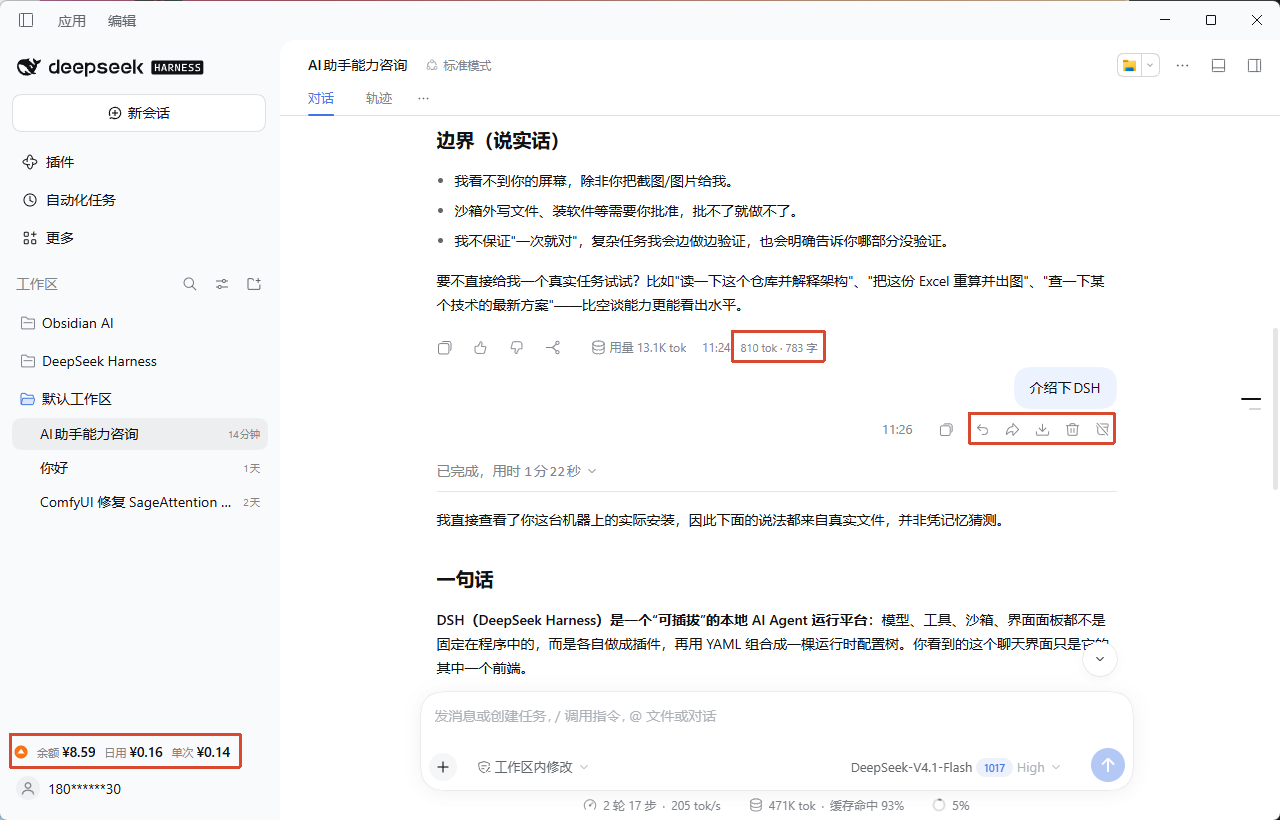
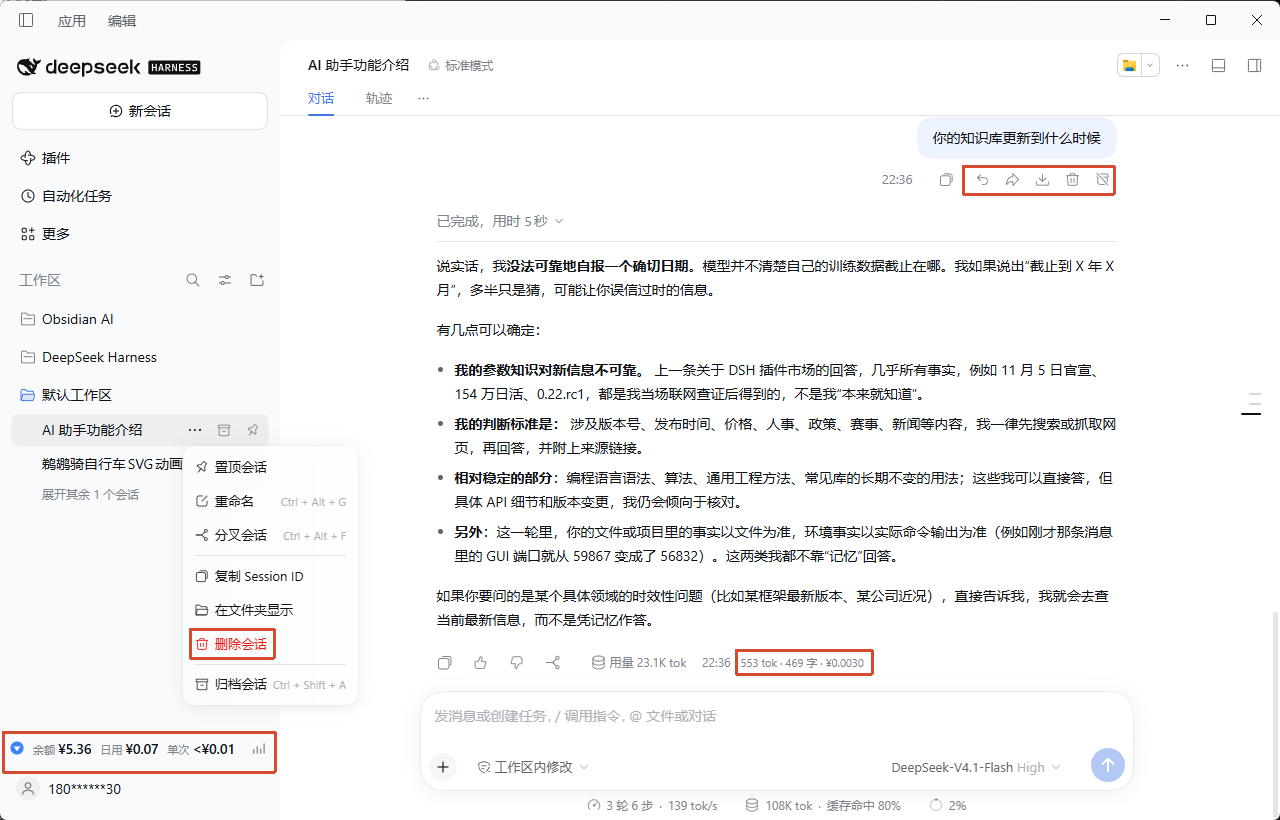
docs(market): 补 0.2.8 界面预览截图并声明 DSH 宿主要求

diff --git a/docs/qa-checklist.md b/docs/qa-checklist.md
@@ -3,7 +3,7 @@
 适用版本：**0.2.8**（设置页「消息操作」标签底部显示的版本号应与 `package.json` 一致）
 目标宿主：DeepSeek Harness 桌面版，profile `desktop`
 
-> 本文只描述验收与发布步骤，不包含任何已执行的发布操作。
+> 本文描述验收与发布步骤；已执行的发布事实记录在「I. 发布记录」，流程细节见「G」。
 > 自动化基线：`node test/check.mjs` 与 `node test/e2e-sessions.mjs` 全部通过；具体项数以脚本实际输出为准。
 > 手工验收前请先完成「A. 构建与环境」，并在宿主重启后加载插件。
 
@@ -154,7 +154,7 @@
 
 ## G. 从构建到发布的步骤与依赖顺序
 
-> 以下为完整流程说明，本次收尾**未执行**任何 tag / npm / Release / 市场操作。
+> 以下为完整流程说明。0.2.8 已按此流程执行，实际结果见「I. 发布记录」。
 
 ### G1 顺序总览
 
@@ -176,12 +176,19 @@
 4. **市场索引依赖 npm 实际发布时间**：`publishTimestamp` 必须取 npm registry 的真实时间，不能在发布前预填；`versions` 按新→旧排列。
 5. **GitHub Release 依赖 tag 存在**：说明文件先本地写好，再用 `scripts/release-notes.mjs` 写入；可早于或晚于 npm，但建议在 npm 成功后执行，便于附上安装方式。
 6. **市场条目最后更新**：只有 npm 上确实可安装时才把该版本写进市场索引，避免用户装到 404。
+7. **网络路径**：本机直连 GitHub 443 可能超时。可先用一次性 `-c` 参数借道本机代理，不要修改全局 git 配置：
+   ```powershell
+   git -c http.proxy=http://127.0.0.1:10809 -c https.proxy=http://127.0.0.1:10809 push origin main
+   ```
+   npm 侧同理，只用 `--proxy/--https-proxy` 单次参数。
+8. **编码**：Release 正文一律以 UTF-8 字节提交；PowerShell 5.1 直接传字符串会把中文变成 `?`，因此优先使用 `scripts/release-notes.mjs`（内置 UTF-8 发送与回读校验）。
 
 ### G2 具体步骤
 
 1. **确认版本**
    - 修改 `package.json.version`（修复类 +1 patch，功能类 +1 minor）。
    - 同步更新 `src/i18n.cjs` 与 `market/index.json` 的描述（如功能有变）。
+   - 确认 `package.json` 顶层声明宿主范围：`"engines": { "dsh": "^0.2.1-rc.1 || ^0.2.2-rc.1" }`。宿主安装校验只认顶层 `engines.dsh`；`dsh.engines.dsh` 仅影响市场徽章展示。缺这段时市场卡片显示「未声明宿主要求」。
    - `npm run build`，确认设置页版本号与新版本一致。
 
 2. **验证**
@@ -195,17 +202,25 @@
 
 4. **打 tag 并推送**
    - `git tag v0.2.8`
-   - `git push origin main`
+   - `git push origin main`（直连超时时加一次性 `-c http.proxy=... -c https.proxy=...`）
    - `git push origin v0.2.8`
-   - 注意：推送与发布均需人工确认后执行。
+   - 推送后确认远端：`git ls-remote --tags origin "refs/tags/v0.2.8*"` 应同时返回 tag 对象与 `^{}` 指向的提交。
+   - tag 一旦推送不再移动；发布后才补的元数据提交（市场索引、徽章）留在 `main` 上，不追打 tag。
 
 5. **发布 npm**
-   - `npm publish`
-   - `prepack` 会自动重新构建；发布后确认 `npm view dsh-message-actions version` 为新版本。
-   - 若发布包异常，按 npm 政策在 72 小时内 `npm unpublish dsh-message-actions@<version>`，并撤回市场条目。
+   - `npm publish`（`publishConfig.registry` 指向 `https://registry.npmjs.org`，`access: public`）。
+   - 账号未在本机登录 npmjs 时先确认：`npm whoami --registry=https://registry.npmjs.org`；默认 registry 是 npmmirror，直接 `npm whoami` 会返回 `ENEEDAUTH`，属正常现象。
+   - 若需要 OTP 而失败，保留完整报错并停止，不要反复重试。
+   - 成功时 PUT 返回 `202 Accepted`，registry 提示 “being processed”；此时包可能暂不可见，属正常传播延迟。
+   - 校验：`npm view dsh-message-actions versions dist-tags --json --registry=https://registry.npmjs.org` 应包含新版本且 `latest` 指向它。
 
 6. **更新市场索引**
-   - `npm view dsh-message-actions time --json` 取该版本 ISO 时间，换算为 epoch 秒。
+   - 取真实发布时间：直接读 registry 文档的 `time` 字段，例如
+     ```powershell
+     Invoke-RestMethod -UseBasicParsing -Proxy http://127.0.0.1:10809 -Uri https://registry.npmjs.org/dsh-message-actions
+     ```
+     `npm view dsh-message-actions time --json` 在刚发布时可能尚未包含新版本，不要用旧结果或估算值。
+   - 把 ISO 时间换算为 epoch 秒（PowerShell：`[long]([datetimeoffset]"2026-11-08T16:00:07Z").ToUnixTimeSeconds()`）。
    - 在 `market/index.json` 的 `versions` 数组**头部**插入：
      ```json
      {
@@ -214,25 +229,42 @@
        "source": { "type": "npm" }
      }
      ```
-   - 同步更新顶层描述（如有变化），提交并推送。
-   - 校验：市场里的 `version` 与 npm 最新版本一致，`publishTimestamp` 与 npm 时间一致。
+   - 同步更新顶层描述（如有变化）、README 的 npm 徽章与“已发布版本”一行，提交并推送。
+   - 校验：市场里的 `version` 与 npm 最新版本一致，`publishTimestamp` 与 npm 时间一致；`versions` 只保留已真实发布的版本。
 
 7. **GitHub Release**
-   - 准备 `release-notes/v0.2.8.md`（UTF-8、无 BOM）。
+   - 准备 `release-notes/v0.2.8.md`（UTF-8、无 BOM），正文首行用发布文案，随后附安装方式。
    - 运行 `node scripts/release-notes.mjs v0.2.8 release-notes/v0.2.8.md`。
    - 脚本会回读校验正文；确认中文没有变成 `?`。
+   - 认证顺序：`GH_TOKEN` / `GITHUB_TOKEN` 环境变量 → `git credential fill`（Git Credential Manager）。本机通常走 GCM，可先验证：
+     ```powershell
+     ("protocol=https`nhost=github.com`n`n" | git credential fill)
+     ```
+   - 本机没有 `gh` CLI，直接用 REST API 时注意：`make_latest` 传布尔值会被拒（`422 For 'properties/make_latest', true is not a string`），省略该字段即可。
    - Release 的 tag 必须与 npm 版本一致。
 
-8. **发布后回归**
-   - 在一个干净 profile 中从市场安装，确认版本、图标、描述与 Release 一致。
-   - 重启 DSH，按 C1/C2 做一次删除到回收站与恢复，确认线上包与本地验证结果一致。
+8. **发布后回归与安装同步**
+   - 实际加载目录为 `D:\DATA\AppData_Backup\.dsh\profiles\desktop\node_modules\dsh-message-actions`（不是 `C:\Users\...\.dsh`）。
+   - 同步前把旧版整体备份到 `D:\DATA\AppData_Backup\.dsh\plugins\.backup\dsh-message-actions-<时间戳>`。
+   - 复制 `lib/`、`locale/`、`package.json`、`cordis.patch.yml`、`icon.svg`、`LICENSE`、`README.md`、`README-en.md`；旧命名 `README.cn.md` 需删除，避免残留旧文案。
+   - 逐文件 SHA256 比对，应为 15 个文件全部一致、无多余文件；同时确认安装副本 `package.json` 的 `version` 等于新版本。
+   - 完全退出并重启 DSH（含托盘 / 后台进程）后再验收；仅刷新页面不会加载新的客户端代码。
+   - 在一个干净 profile 中从市场安装，确认版本、图标、描述与 Release 一致；重启后按 C1/C2 做一次删除到回收站与恢复。
 
 ### G3 开发与正式配置边界
 
 - 开发直接改 `src/`，用 `npm run build` 生成 `lib/`；`lib/` 已被 `.gitignore` 排除，不手工编辑。
-- 发布包只包含 `package.json.files` 白名单：`lib/*`、`locale/*.json`、`cordis.patch.yml`、`icon.svg`。
+- 发布包只包含 `package.json.files` 白名单（`lib/` 各产物、`locale/*.json`、`cordis.patch.yml`、`icon.svg`），外加 npm 自动附带的 `package.json`、`README.md`、`LICENSE`；0.2.8 共 14 个文件。
 - `prepack` 与 `build` 使用同一脚本，避免“本地能跑、发布包缺文件”。
 - 市场索引属于仓库文件，不是 npm 包内容；发布后必须单独提交。
+
+### G4 市场展示
+
+- **兼容性徽章**：市场读 `package.json` 的 `engines.dsh`（顶层优先，其次 `dsh.engines.dsh`）；都没有时卡片显示「未声明宿主要求」。徽章数据来自远端 manifest（npm latest 或 GitHub HEAD），改本地安装副本无效。
+- **缓存**：manifest 缓存 TTL 24 小时，改完不会立即刷新。
+- **截图**：本市场版本的卡片没有缩略图位，README 中的图片只在详情弹窗里作为截图条展示，抓取源是 `raw.githubusercontent.com/<owner>/<repo>/HEAD/README.md`。
+- **图片地址**：README 用绝对 `raw.githubusercontent.com` 地址，GitHub、npm 页面与市场都能显示；相对路径在 npm 页面会失效。
+- 卡片那行简短简介来自 awesome-dsh-plugin.com 目录字段，不由仓库决定；要改需在目录侧更新。
 
 ---
 
@@ -241,3 +273,85 @@
 | 日期 | 插件版本 | 宿主 / profile | 执行人 | A 构建 | B 消息 | C 会话 | D 费用 | E 主题 | F 异常 / 安全 | 结论 | 备注 |
 |---|---|---|---|---|---|---|---|---|---|---|---|
 |  | 0.2.8 | DSH / desktop |  |  |  |  |  |  |  |  |  |
+
+---
+
+## I. 0.2.8 发布记录
+
+> 本节记录**已执行**的事实，用于回溯与下次发布对照；未填写的项目表示尚未完成人工验收。
+
+### I0 相对 0.2.4 的主要变化
+
+- **会话管理**：会话列表支持多选，批量删除到回收站 / 批量归档并汇总结果；删除与恢复只迁移会话目录，日志内容不变、墓碑仍生效；侧边栏与「⋯」菜单补充图标。
+- **文案**：统一使用「会话管理」，状态筛选「已归档」可用且计数与总数一致。
+- **消息操作**：撤回、删除、删至末尾、多选分享与导出保持原有行为；提示音与音量不变。
+- **安全**：e2e 扩展到 86 项，新增伪造 Host、跨站 Origin、路径穿越、批量上限 51、重复 id、非 JSON、2MB 请求体、PUT 405、未知 action、错误不泄露路径、彻底清理不可恢复等围栏断言。
+- **文档**：README 中英文重写，补充用法、计费规则、数据与权限、常见问题与徽章；发布描述按统一文案对齐到 `src/i18n.cjs`、`package.json`、`market/index.json` 与 README 开头。
+
+### I1 提交与 tag
+
+| 项目 | 值 |
+|---|---|
+| 发布提交 | `988b30d` `docs(i18n): 统一插件描述为 0.2.8 发布文案` |
+| 元数据提交 | `8bb3685` `chore(release): 0.2.8 市场索引与 README 徽章同步` |
+| tag | `v0.2.8`（annotated，tag 对象 `cb90e69`，指向提交 `988b30d`） |
+| 远端 tag | `refs/tags/v0.2.8` 与 `refs/tags/v0.2.8^{}` 均存在 |
+
+- tag 未移动；`8bb3685` 属于发布后补记，不追打 tag。
+- push 通过一次性代理参数完成，未改动全局 git 配置。
+
+### I2 npm
+
+| 项目 | 值 |
+|---|---|
+| 版本 | `0.2.8` |
+| registry | `https://registry.npmjs.org`（public） |
+| 发布时间 | `2026-11-08T16:00:07.313Z`（epoch `1794153607`） |
+| 首次响应 | `202 Accepted`，约 1 分钟后 registry 可见 |
+| tarball | 14 个文件，183.9 kB，shasum `35658a5ec45089aaf45378b9db78a091293d58a6` |
+
+### I3 市场索引写入
+
+`market/index.json` 的 `versions` 头部新增（其余 0.2.4 / 0.2.3 / 0.2.2 / 0.2.1 保持原样）：
+
+```json
+{
+  "version": "0.2.8",
+  "publishTimestamp": 1794153607,
+  "source": { "type": "npm" }
+}
+```
+
+- 插件描述 zh 为发布文案原文，en 为对应译文；README 中英文的 npm 徽章与“已发布版本”均已同步为 0.2.8。
+- `test/check.mjs` 的旧断言“当前版本必须高于市场列表最新”已改为“列表按时间倒序且最新版本等于当前版本”。
+
+### I4 GitHub Release
+
+- 地址：https://github.com/aijacko/dsh-message-actions/releases/tag/v0.2.8
+- 标题：`dsh-message-actions 0.2.8：消息操作、会话管理、用量计费与完成提示音`
+- 正文：首行为发布文案原文，后附插件市场 / npm / 本地安装三种方式与重启提示；已回读确认与原文一致、无乱码。
+- 本次通过 REST API 创建（本机无 `gh` CLI）；首次因 `make_latest: true` 被拒（422），省略该字段后成功。
+
+### I5 自动化与安装校验
+
+| 项目 | 结果 |
+|---|---|
+| `node test/check.mjs` | 3057 项通过，0 失败 |
+| `node test/e2e-sessions.mjs` | 86 项全部通过 |
+| 安装目录 | `D:\DATA\AppData_Backup\.dsh\profiles\desktop\node_modules\dsh-message-actions` |
+| 旧版备份 | `D:\DATA\AppData_Backup\.dsh\plugins\.backup\dsh-message-actions-20261109-000415` |
+| 文件校验 | 15/15 SHA256 一致，无多余文件；安装副本 `package.json` 版本为 `0.2.8` |
+| 文档清理 | 旧 `README.cn.md` 已删除，改为 `README.md`（中文）+ `README-en.md`（英文） |
+
+发布完成后仍需**完全退出并重启 DSH**（含托盘 / 后台进程）才会加载新客户端代码。
+
+### I6 0.2.8 之后的未发布改动
+
+> 这些改动已进工作树，尚未发版；下次发布时并入版本说明。
+
+| 项目 | 内容 |
+|---|---|
+| 宿主范围 | `package.json` 新增顶层 `engines.dsh: "^0.2.1-rc.1 \|\| ^0.2.2-rc.1"`，消除市场卡片的「未声明宿主要求」；已用市场同款 `satisfiesRange` 验证匹配 0.2.1 / 0.2.2 两代宿主，`0.1.7-alpha.1` 与 `0.3.0` 不匹配 |
+| README 截图 | 中英文各补「界面预览 / Screenshots」四图（消息操作与费用卡片、设置·消息操作、设置·会话管理、设置·费用统计），地址为 `raw.githubusercontent.com/.../main/pic/*.png` |
+| 旧截图 | `pic/` 已换成 0.2.8 实拍：中文 `1–4.png`、英文 `1en–4en.png`；0.2.1 时代的设置页旧图已不再引用 |
+| 验证 | `node build.mjs` 正常；`check.mjs` 3057 通过；`e2e-sessions.mjs` 86 通过 |

diff --git a/README-en.md b/README-en.md
@@ -13,6 +13,14 @@
 
 **Features: recall, delete, and delete-to-end; multi-select share and export; session deletion, trash, restore, and batch actions; usage billing with balance and cost views; a completion sound when a reply finishes.** The host has no recall, delete, or cost view; this plugin fills those gaps — message actions, share/export, session management, and usage billing all run locally, with conversation data never uploaded.
 
+## Screenshots
+
+| Message actions and cost card | Settings · Message actions |
+|---|---|
+| ![Recall, delete, share, and export on question and answer rows; the answer row shows tokens, words, and per-reply cost; the balance card sits at the bottom left](https://raw.githubusercontent.com/aijacko/dsh-message-actions/main/pic/1en.png) | ![Message actions tab: recall, share, export, delete, delete-to-end, confirmation, answer stats, completion sound, and volume](https://raw.githubusercontent.com/aijacko/dsh-message-actions/main/pic/2en.png) |
+| **Settings · Sessions** | **Settings · Cost** |
+| ![Sessions tab: delete toggle, session and trash counts, grouping by workspace, search and status filters, delete-to-trash for a batch](https://raw.githubusercontent.com/aijacko/dsh-message-actions/main/pic/3en.png) | ![Cost tab: cost toggle, single-row or multi-row layout, per-reply cost, auto-close, peak/off-peak pricing row, stats table entry](https://raw.githubusercontent.com/aijacko/dsh-message-actions/main/pic/4en.png) |
+
 ## Features
 
 ### Message actions

diff --git a/README.md b/README.md
@@ -13,6 +13,14 @@
 
 **功能：撤回、删除、删至末尾、多选分享与导出；删除会话、回收站、恢复、批量操作；用量计费、余额与费用展示；对话完成提示音。** 宿主本身没有撤回、删除与费用视图，这个插件把这几件事补齐：消息操作、分享导出、会话管理、用量计费全部在本机完成，不上传对话内容。
 
+## 界面预览
+
+| 消息操作与费用卡片 | 设置 · 消息操作 |
+|---|---|
+| ![提问行与回答行的撤回、删除、分享、导出按钮；回答行显示 tokens、字数与单条费用；左下角是余额卡片](https://raw.githubusercontent.com/aijacko/dsh-message-actions/main/pic/1.png) | ![消息操作标签：撤回、分享、导出、删除、删至末尾、操作确认、回答统计、提示音与音量](https://raw.githubusercontent.com/aijacko/dsh-message-actions/main/pic/2.png) |
+| **设置 · 会话管理** | **设置 · 费用统计** |
+| ![会话管理标签：删除会话开关、会话与回收站计数、按工作区分组、搜索与状态筛选、批量删除到回收站](https://raw.githubusercontent.com/aijacko/dsh-message-actions/main/pic/3.png) | ![费用统计标签：费用统计开关、计费样式单行/多行、单次消耗、自动关闭、峰谷定价行、统计表入口](https://raw.githubusercontent.com/aijacko/dsh-message-actions/main/pic/4.png) |
+
 ## 功能一览
 
 ### 消息操作
